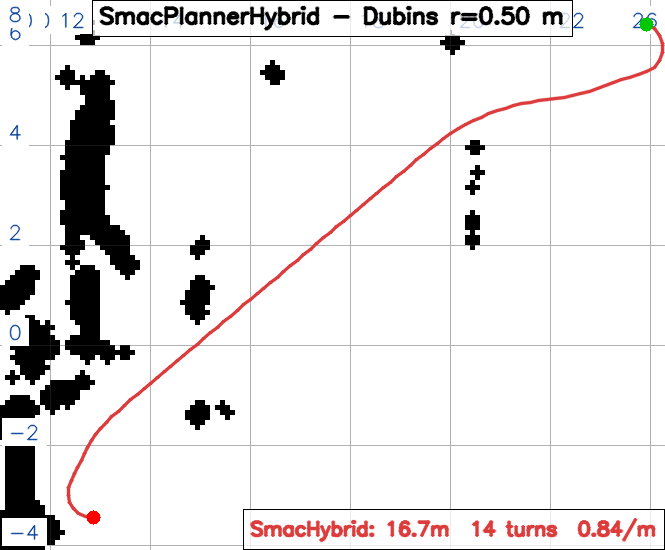
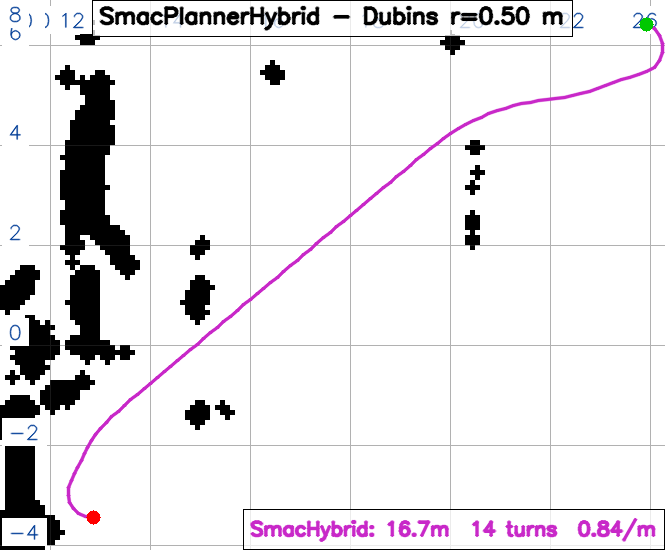
feat(plot_path): 新增 --color 强制配色，单图与汇总图配色统一
- 5 张单图改用各自身份色（1红2蓝3绿4紫5黄），与 path_compare_all.png 一致
- 交付指南与 tools/README 补 --color 用法，并记录 zsh $=VAR 分词坑

diff --git a/tools/plot_path.py b/tools/plot_path.py
@@ -134,6 +134,10 @@ def main():
     ap.add_argument('--font-scale', type=float, default=1.0,
                     help='图例/标题字号缩放，默认 1.0；裁剪后画布变小、'
                          '图例占屏太多时调小，如 0.55')
+    ap.add_argument('--color', type=int, default=0, metavar='N',
+                    help='强制用调色板第 N 色（1=红 2=蓝 3=绿 4=紫 5=黄，循环）；'
+                         '默认 0 = 按传参顺序自动分配。画单规划器大图时用它，'
+                         '配色就和汇总图一致了')
     args = ap.parse_args()
 
     png, res, ox, oy = read_map_yaml(args.map)
@@ -261,7 +265,7 @@ def main():
             print(f'  ⚠ 跳过 {label}（未解析出路径点）')
             continue
 
-        color = COLORS[i % len(COLORS)]
+        color = COLORS[((args.color - 1) if args.color > 0 else i) % len(COLORS)]
         length, turns, density = path_stats(pts, args.turn_threshold)
 
         px = [to_px(x, y) for x, y in pts]

diff --git a/飞书交付指南.md b/飞书交付指南.md
@@ -132,24 +132,30 @@ await page.evaluate(async () => {
 ```bash
 cd /workspaces/RMCS/docs/zh-cn/算法组考核
 T=/tmp/plancmp
+OPTS="--map 战队 --scale 5 --grid 2 --crop 11.0,-4.2,25.0,7.2 --legend-pos br --font-scale 0.55"
 
+# 汇总图（5 条路径，配色自动按传参顺序 ①②③④⑤）
 python3 tools/plot_path.py assets/path_compare_all.png \
   "NavFn:$T/plan_navfn.txt" "ThetaStar:$T/plan_thetastar.txt" \
   "Smac2D:$T/plan_smac2d.txt" "SmacHybrid:$T/plan_hybrid.txt" \
-  "SmacLattice:$T/plan_lattice.txt" \
-  --map 战队 --scale 5 --grid 2 --crop 11.0,-4.2,25.0,7.2 \
-  --legend-pos br --font-scale 0.55 \
+  "SmacLattice:$T/plan_lattice.txt" $=OPTS \
   --title "Five global planners - zhandui map"
 
-for p in navfn:path_navfn thetastar:path_theta_star smac2d:path_smac2d \
-         hybrid:path_smac_hybrid lattice:path_smac_lattice; do
-  key=${p%%:*}; out=${p##*:}
-  python3 tools/plot_path.py assets/$out.png \
-    "$key:$T/plan_$key.txt" \
-    --map 战队 --scale 5 --grid 2 --crop 11.0,-4.2,25.0,7.2 \
-    --legend-pos br --font-scale 0.55 --title "$key"
-done
+# 单图 5 张（--color 强制用第 N 色，与汇总图一致：1红 2蓝 3绿 4紫 5黄）
+python3 tools/plot_path.py assets/path_navfn.png \
+  "NavFn:$T/plan_navfn.txt" $=OPTS --color 1 --title "NavFn - grid based baseline (forbidden)"
+python3 tools/plot_path.py assets/path_theta_star.png \
+  "ThetaStar:$T/plan_thetastar.txt" $=OPTS --color 2 --title "ThetaStar - any angle, grid based"
+python3 tools/plot_path.py assets/path_smac2d.png \
+  "Smac2D:$T/plan_smac2d.txt" $=OPTS --color 3 --title "SmacPlanner2D - grid based A star"
+python3 tools/plot_path.py assets/path_smac_hybrid.png \
+  "SmacHybrid:$T/plan_hybrid.txt" $=OPTS --color 4 --title "SmacPlannerHybrid - Dubins r=0.50 m"
+python3 tools/plot_path.py assets/path_smac_lattice.png \
+  "SmacLattice:$T/plan_lattice.txt" $=OPTS --color 5 --title "SmacPlannerLattice - omni (CHOSEN)"
 ```
+
+> ⚠ **`$=OPTS` 不能写成 `$OPTS`**：zsh 默认不对未加引号的变量做分词，
+> 整串会被当成**单个**参数（曾因此把 `--map` 的值污染成整串、`--crop` 静默失效）。
 
 > ⚠ **参数顺序有讲究**：`plot_path.py` 的 `paths` 是位置参数（`nargs='*'`），
 > **必须紧跟 `output`**，不能放在 `--title` 之类的选项后面，否则 argparse 报

diff --git a/tools/README.md b/tools/README.md
@@ -174,6 +174,12 @@ python3 tools/plot_path.py out.png "NavFn:/tmp/plan_navfn.txt" \
 python3 tools/plot_path.py out.png "NavFn:/tmp/plan_navfn.txt" \
   --map 战队 --scale 5 --crop 11.0,-4.2,25.0,7.2 --legend-pos br --font-scale 0.55
 
+# ⑦b 强制配色（--color N：1红 2蓝 3绿 4紫 5黄）
+#     画单规划器大图时用它，配色就和汇总图一致了
+python3 tools/plot_path.py out.png "SmacLattice:/tmp/plan_lattice.txt" \
+  --map 战队 --scale 5 --grid 2 --crop 11.0,-4.2,25.0,7.2 \
+  --legend-pos br --font-scale 0.55 --color 5
+
 # ⑧ 只要地图 + 世界坐标网格（不给路径也能画，用于挑目标点）
 python3 tools/plot_path.py assets/map_zhandui_grid.png --map 战队 --grid 2 --scale 3
 
